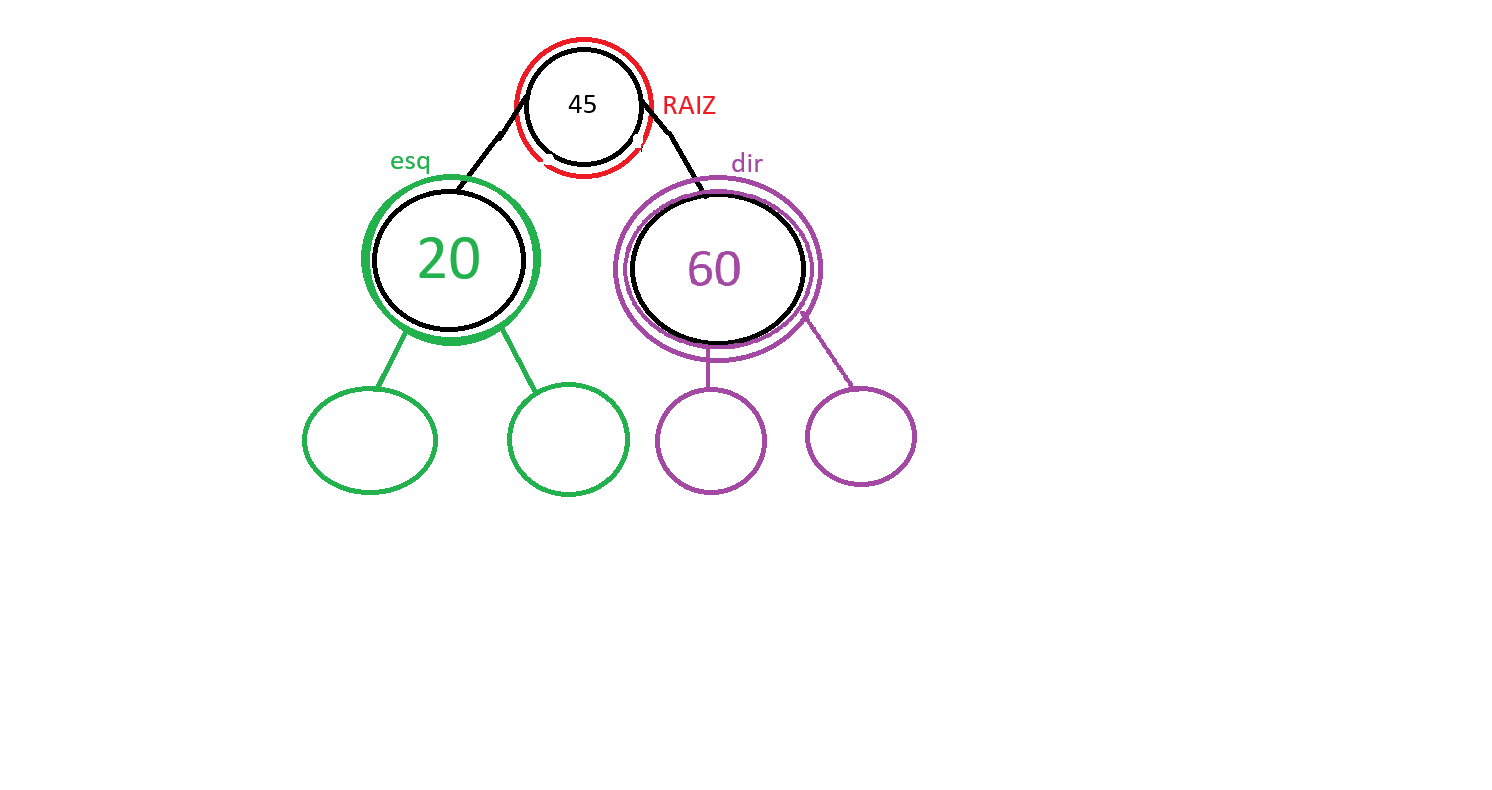
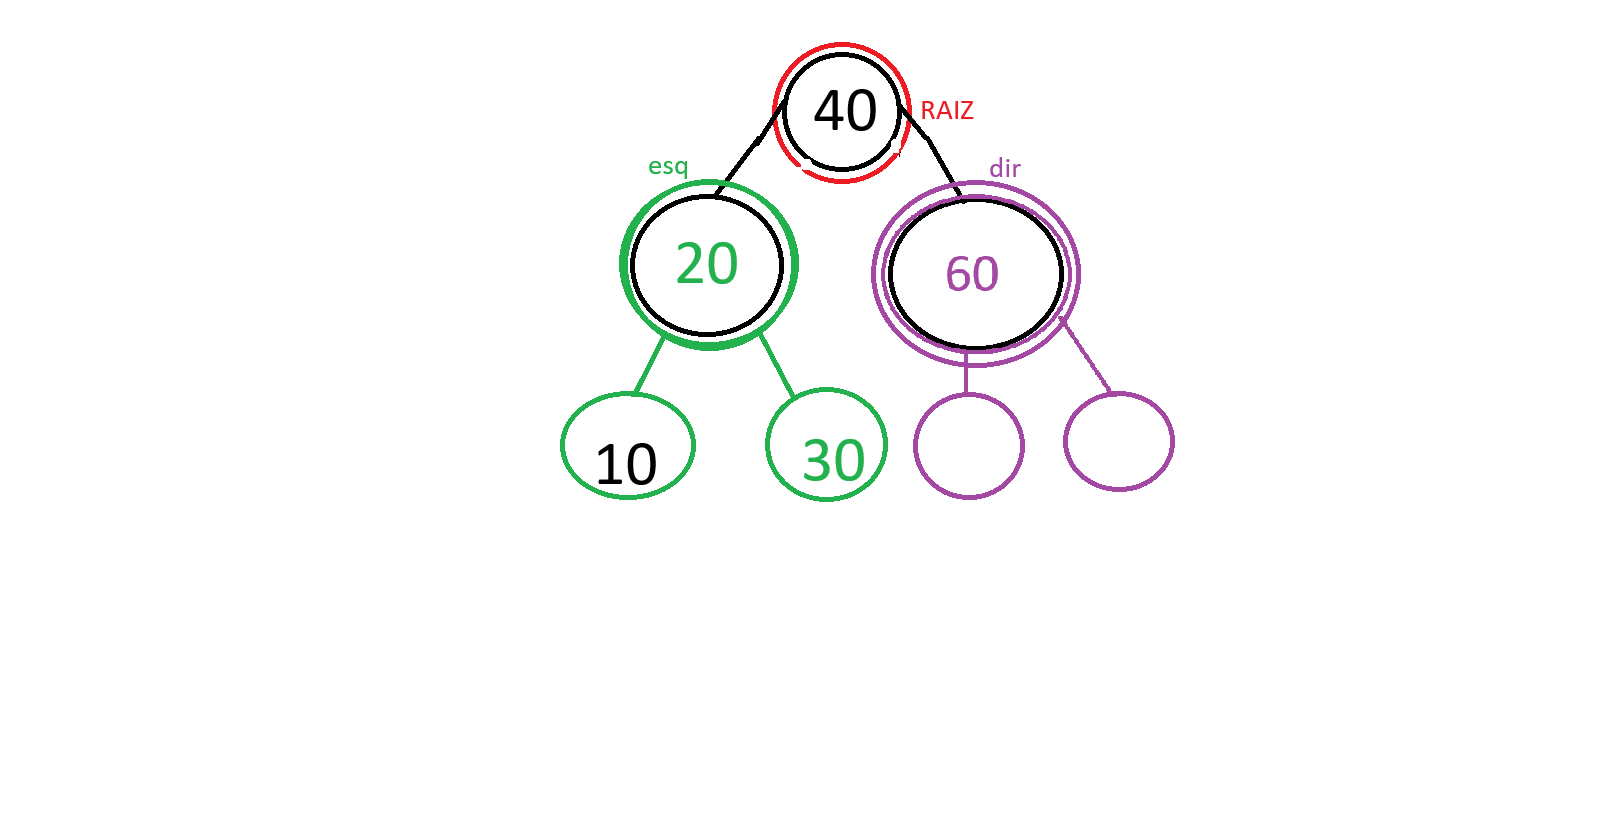
arvore finalizada

diff --git a/Aula05/arvore.c b/Aula05/arvore.c
@@ -50,6 +50,9 @@ int main() {
     raiz->esq = criarNo(20);
     raiz->dir = criarNo(60);
 
+    raiz->esq->esq = criarNo(10);
+    raiz->esq->dir = criarNo(30);
+
     preOrdem(raiz);
 
     return 0;
